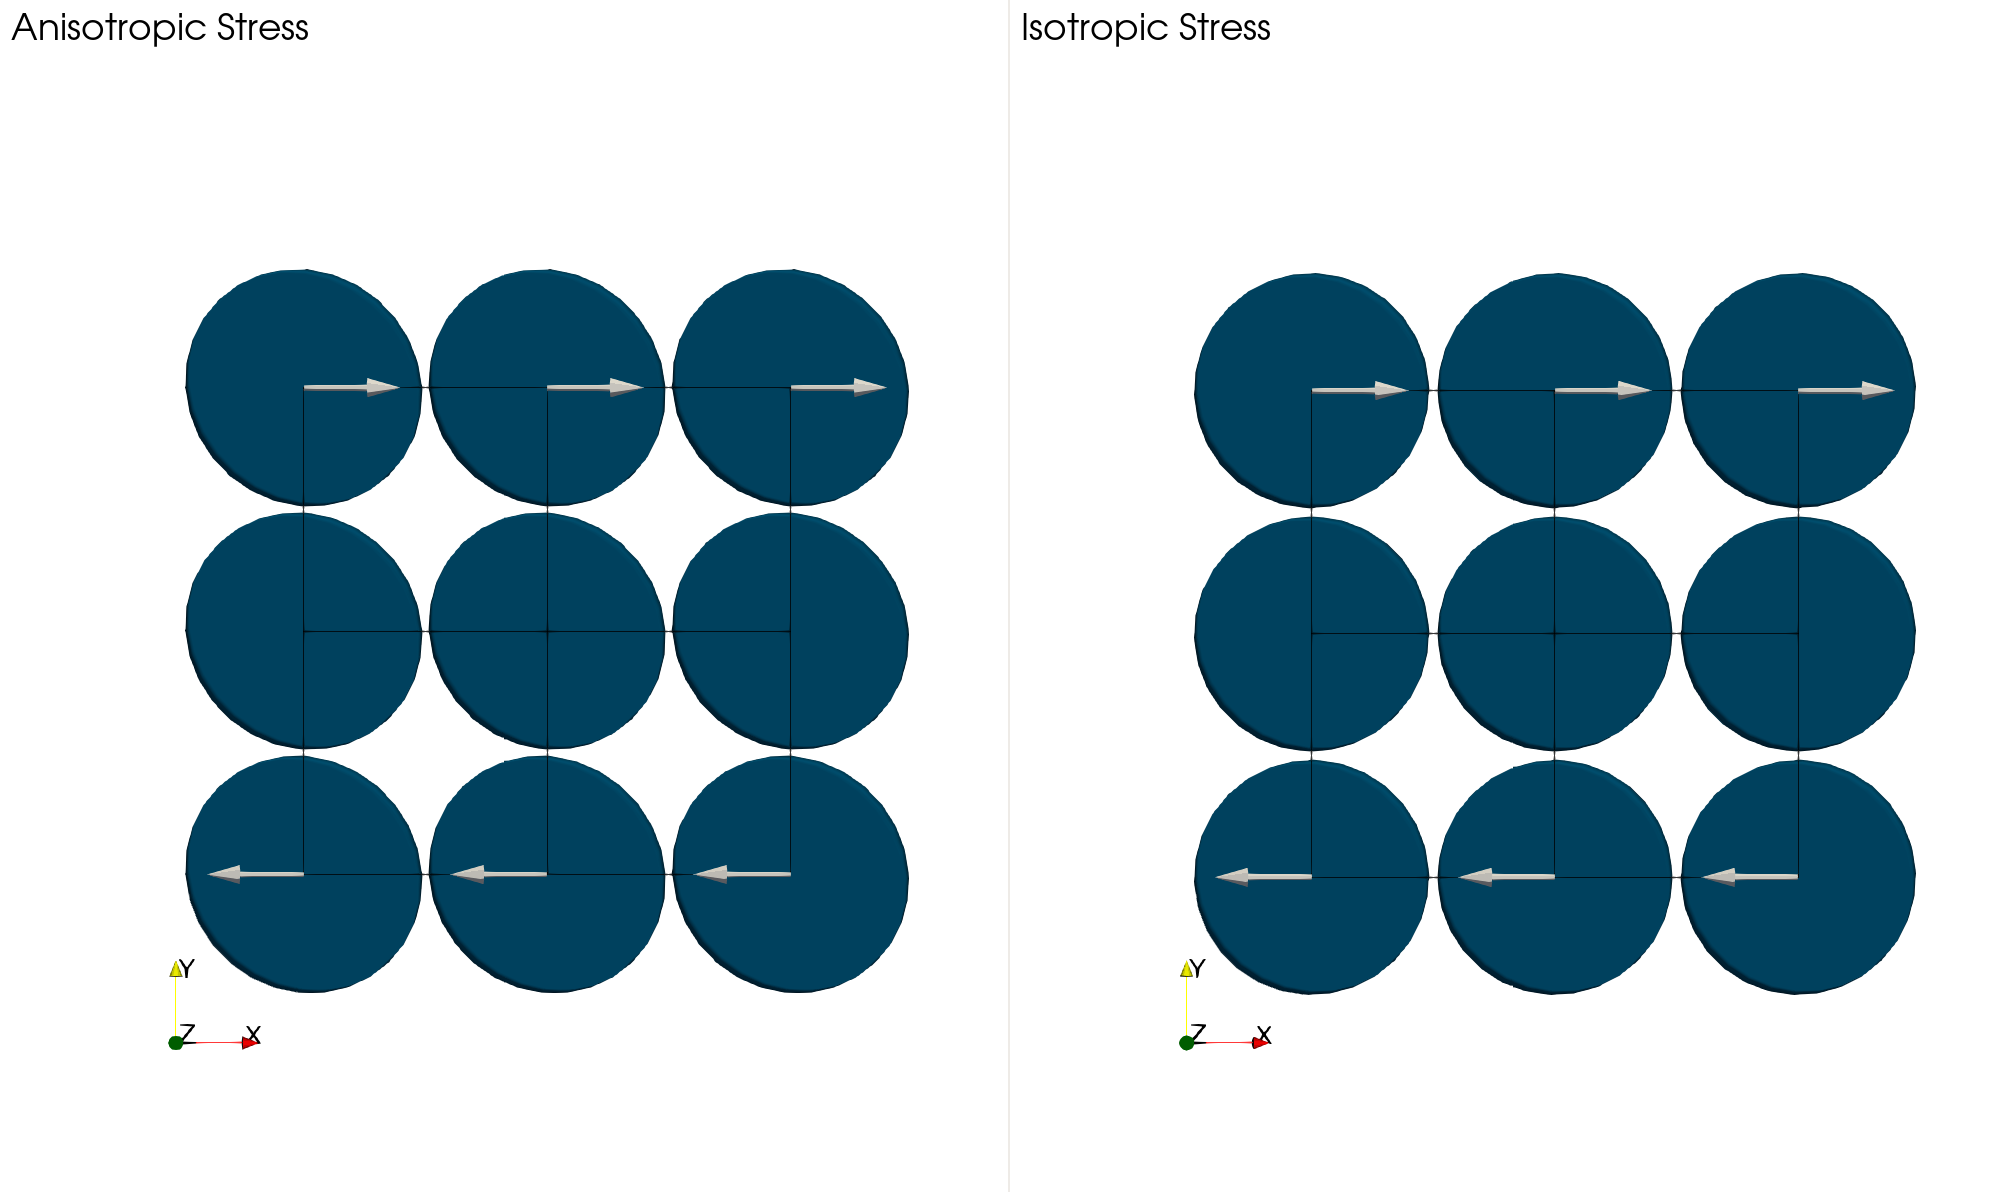
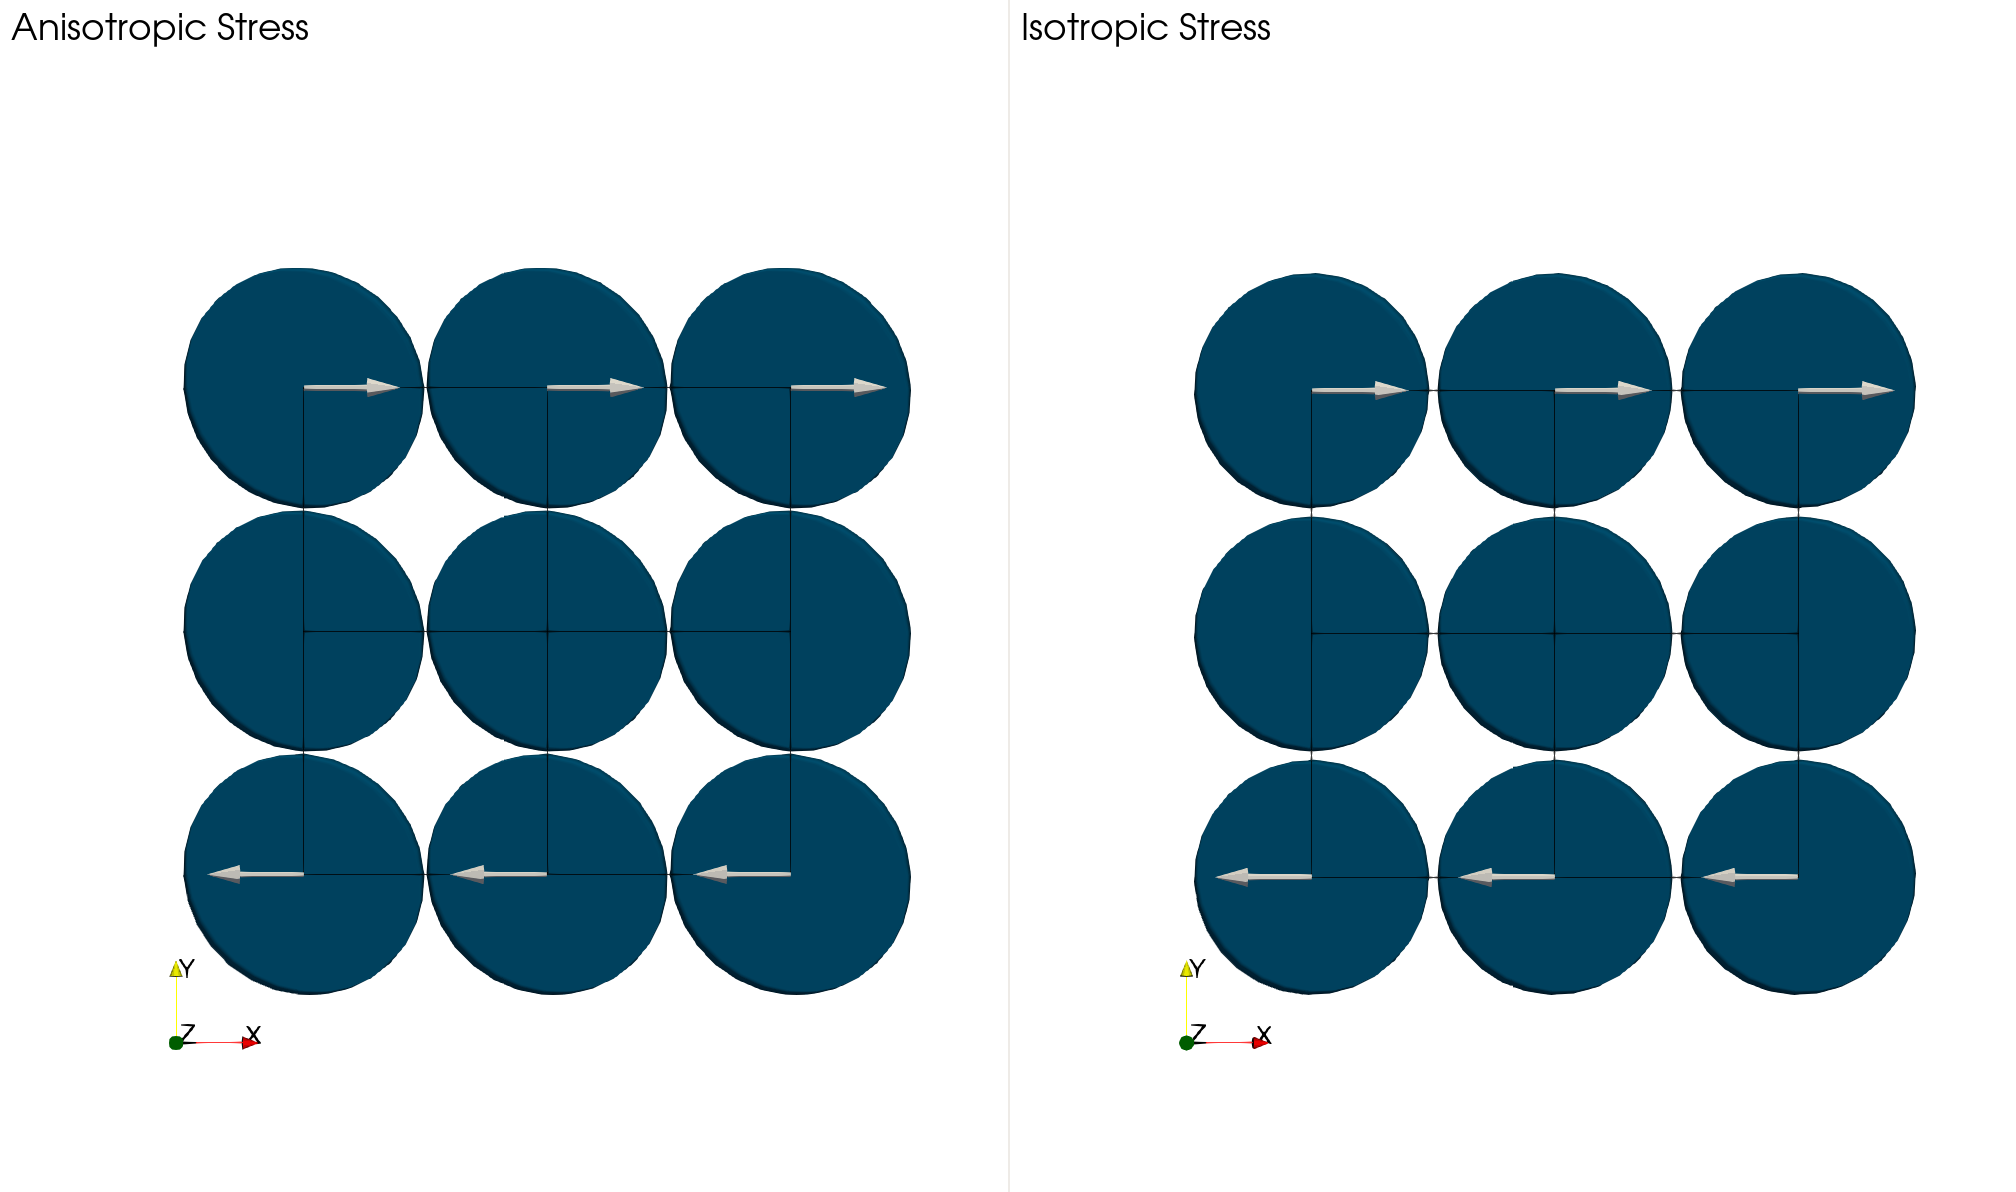
removed merge conflicts

diff --git a/cookbooks/CPO_induced_anisotropic_viscosity/plugin/cpo_induced_anisotropic_viscosity.cc b/cookbooks/CPO_induced_anisotropic_viscosity/plugin/cpo_induced_anisotropic_viscosity.cc
@@ -219,7 +219,7 @@ namespace aspect
       std::vector<int> ji = {1,2,0}; // tuple of indices shifted by one
       std::vector<int> ki = {2,0,1}; // tuple of indices shifted by two
 
-      std::vector<double> Hi = {F, G, H, M, N, L};
+      std::vector<double> Hi = {F, G, H, L, M, N};
       const double gam = 4*(Hi[2]*Hi[1] + Hi[0]*Hi[2] + Hi[0]*Hi[1]);
 
       double anisotropic_invariant = 0.0;
@@ -288,13 +288,6 @@ namespace aspect
                strain_rate_3d);
 
           // Create constant value to use for AV
-
-          const double A_o = fluidity_constant*std::exp(-activation_energy/(8.314*std::max(in.temperature[q],1.0e-10)));
-          // 1.1e5*std::exp(-530000/(8.314*in.temperature[q]));
-          // The values of A_o and 0.73 were picked so that Gamma = 3.5322e-15[1/(s*Pa^n)] if T=1600K and d=1000 microns
-          const double Gamma = (A_o/(std::pow(grain_size, grain_size_exponent)));
-
-          // // Create constant value to use for AV
           // const double A_o = fluidity_constant*std::exp(-530000/(8.314*in.temperature[q]));
           // // const double n = 3.5; //n=3 for test against VPSC, n=3.5 for D-Rex in ASPECT
           // // The values of A_o and 0.73 were picked so that Gamma = 3.5322e-15[1/(s*Pa^n)] if T=1600K and d=1000 microns
@@ -309,10 +302,6 @@ namespace aspect
           // and when the condition allows dislocation creep
           if  ((this->simulator_is_past_initialization()) && (this->get_timestep_number() > 0) && (std::isfinite(determinant(deviatoric_strain_rate))) && (anisotropic_viscosity != nullptr)) // && (in.temperature[q]>1000)
             {
-<<<<<<< HEAD
-=======
-
->>>>>>> yijun/cpo2hill_v3
               // Get eigenvalues from compositional fields
               const std::vector<double> &composition = in.composition[q];
               const double eigvalue_a1 = composition[cpo_bingham_avg_a[1]];
@@ -331,12 +320,9 @@ namespace aspect
               const double phi2 = composition[cpo_bingham_avg_c[0]];
 
               const Tensor<2,3> R = euler_angles_to_rotation_matrix(phi1, theta, phi2);
-<<<<<<< HEAD
 
               // initialize scalar viscosity
               double scalar_viscosity = composition[viscosity_field_index];
-=======
->>>>>>> yijun/cpo2hill_v3
 
               // Compute Hill Parameters FGHLMN from the eigenvalues of a,b,c axis
               // CPO2Hill v3 model:
@@ -391,26 +377,8 @@ namespace aspect
               R_CPO_K[5][4] = R[0][0]*R[1][2]+R[0][2]*R[1][0];
               R_CPO_K[5][5] = R[0][0]*R[1][1]+R[0][1]*R[1][0];
 
-<<<<<<< HEAD
               // using the analytical inversion based on principal invariants of orthotropic symmetry group
               if (use_analytical_inversion == true)
-=======
-              SymmetricTensor<2,6> A;
-              A[0][0] = (2./3.) * (G+H);
-              A[0][1] = (2./3.) * (-H);
-              A[0][2] = (2./3.) * (-G);
-              A[1][1] = (2./3.) * (H+F);
-              A[1][2] = (2./3.) * (-F);
-              A[2][2] = (2./3.) * (F+G);
-              A[3][3] = (2./3.) * (L);
-              A[4][4] = (2./3.) * (M);
-              A[5][5] = (2./3.) * (N);
-
-              // A is the anisotropic tensor for the fluidity. We need its inverse, but it's not invertible due to singularity.
-              // Thus we compute the Moore-Penrose pseudo inverse using SVD
-              LAPACKFullMatrix<double> A_mat_lapack(6,6), pinvA_mat_lapack(6,6);
-              for (unsigned int ai=0; ai<6; ++ai)
->>>>>>> yijun/cpo2hill_v3
                 {
                   // rotate 3d strain-rate into cpo frame and compute scalar anisotropic viscosity
                   Tensor<2,3> strain_rate_cpo = R*strain_rate_3d*transpose(R);
@@ -488,9 +456,8 @@ namespace aspect
                     }
 
                   unsigned int n_iterations = 0;
-                  const unsigned int max_iteration = 100;
                   double residual = scalar_viscosity;
-                  double threshold = 0.0001*scalar_viscosity;
+                  double threshold = relative_tolerance*scalar_viscosity;
                   // Here we convert stress to MPa to be consistent with the constitutive equation defined in Signorelli et al. (2021),
                   // in which the stress is in MPa.
                   SymmetricTensor<2,3> stress = scalar_viscosity * viscosity_tensor_3D_r4 * deviatoric_strain_rate; // 2 * / 1e6;
@@ -515,74 +482,11 @@ namespace aspect
                       const double scalar_viscosity_new = (1 / (Gamma * std::pow(Jhill,(n-1)/2)));
                       residual = std::abs(scalar_viscosity_new - scalar_viscosity);
                       scalar_viscosity = scalar_viscosity_new;
-                      threshold = 0.0001*scalar_viscosity;
+                      threshold = relative_tolerance*scalar_viscosity;
                       n_iterations++;
                     }
                 }
 
-<<<<<<< HEAD
-=======
-              // Calculate the fluidity tensor in the CPO frame
-              const Tensor<2,6> V = transpose(R_CPO_K) * invA * R_CPO_K;
-
-              // Convert rank 2 viscosity tensor to rank 4
-              FullMatrix<double> V_mat(6,6);
-              for (unsigned int vi=0; vi<6; ++vi)
-                {
-                  for (unsigned int vj=0; vj<6; ++vj)
-                    {
-                      V_mat[vi][vj] = V[vi][vj];
-                    }
-                }
-              SymmetricTensor<4,dim> V_r4;
-              dealii::Physics::Notation::Kelvin::to_tensor(V_mat, V_r4);
-              anisotropic_viscosity->stress_strain_directors[q] = V_r4;
-
-              double scalar_viscosity = composition[viscosity_field_index];
-
-              // In the first time step using the actual strain rate can lead to convergence issue if the strain rate varies significantly within the model domain.
-              // Thus for the first timestep we calculate an initial viscosity based on the strain rate.
-              if (this->get_timestep_number() == 1)
-                {
-                  const double edot_ii=std::max(std::sqrt(std::max(-second_invariant(deviator(strain_rate)), 0.)),
-                                                min_strain_rate);
-                  scalar_viscosity= 1/Gamma * std::pow(edot_ii,((1. - n)/n));
-                }
-
-              unsigned int n_iterations = 0;
-              // const unsigned int max_iteration = 100;
-              double residual = scalar_viscosity;
-              double threshold = relative_tolerance*scalar_viscosity;
-              // Here we convert stress to MPa to be consistent with the constitutive equation defined in Signorelli et al. (2021),
-              // in which the stress is in MPa.
-              SymmetricTensor<2,dim> stress = scalar_viscosity * V_r4 * deviatoric_strain_rate / 1e6;
-
-              while (std::abs(residual) > threshold && n_iterations < max_iteration)
-                {
-                  stress = (1./2.) * (stress + scalar_viscosity * V_r4 * deviatoric_strain_rate / 1e6);
-
-                  const Tensor<2,dim> S_CPO= R * stress * transpose(R);
-
-                  double Jhill = 2./3. * (F*Utilities::fixed_power<2>(S_CPO[1][1]-S_CPO[2][2]) + G*Utilities::fixed_power<2>(S_CPO[2][2]-S_CPO[0][0]) + H*Utilities::fixed_power<2>(S_CPO[0][0]-S_CPO[1][1]) + 2*L*Utilities::fixed_power<2>(S_CPO[1][2]) + 2*M*Utilities::fixed_power<2>(S_CPO[0][2]) + 2*N*Utilities::fixed_power<2>(S_CPO[0][1]));
-                  if (Jhill < 0)
-                    {
-                      Jhill = 2./3. * (std::abs(F)*Utilities::fixed_power<2>(S_CPO[1][1]-S_CPO[2][2]) + std::abs(G)*Utilities::fixed_power<2>(S_CPO[2][2]-S_CPO[0][0]) + std::abs(H)*Utilities::fixed_power<2>(S_CPO[0][0]-S_CPO[1][1]) + 2*L*Utilities::fixed_power<2>(S_CPO[1][2]) + 2*M*Utilities::fixed_power<2>(S_CPO[0][2]) + 2*N*Utilities::fixed_power<2>(S_CPO[0][1]));
-                    }
-
-                  AssertThrow(std::isfinite(Jhill),
-                              ExcMessage("Jhill should be finite"));
-                  AssertThrow(Jhill >= 0,
-                              ExcMessage("Jhill should not be negative"));
-
-                  const double scalar_viscosity_new = (1 / (Gamma * std::pow(Jhill,(n-1)/2)));
-                  residual = std::abs(scalar_viscosity_new - scalar_viscosity);
-                  scalar_viscosity = scalar_viscosity_new;
-                  threshold = 0.001*scalar_viscosity;
-                  n_iterations++;
-
-                }
-              // Store the scalar viscosity in out.viscosities
->>>>>>> yijun/cpo2hill_v3
               out.viscosities[q] = scalar_viscosity;
 
               AssertThrow(std::isfinite(out.viscosities[q]),
@@ -593,7 +497,6 @@ namespace aspect
             }
           else // timestep == 0 or no anisotropic viscosity
             {
-<<<<<<< HEAD
               if ((this->simulator_is_past_initialization()) && (std::isfinite(determinant(deviatoric_strain_rate))))
                 {
                   // for the zero-th timestep calculating the scalar viscosity based on the strain-rate -> i.e. isotropic response
@@ -602,18 +505,6 @@ namespace aspect
                   out.viscosities[q] = std::pow(Gamma, (-1/n))*std::pow(edot_ii,((1. - n)/n)); //
 
                 }
-=======
-              // if ((this->simulator_is_past_initialization()) && (std::isfinite(determinant(deviatoric_strain_rate))))
-              //   {
-              //     // for the zero-th timestep calculating the scalar viscosity based on the strain-rate -> i.e. isotropic response
-              //     double edot_ii=std::max(std::max(deviatoric_strain_rate.norm(), 0.),
-              //                                   min_strain_rate);
-              //     out.viscosities[q] = 1/Gamma * std::pow(edot_ii,((1. - n)/n)); //
-              //     double edot_ii=std::max(std::sqrt(std::max(-second_invariant(deviator(strain_rate)), 0.)),
-              //                                   min_strain_rate);
-              //     out.viscosities[q] = 1/Gamma * std::pow(edot_ii,((1. - n)/n));
-              //   }
->>>>>>> yijun/cpo2hill_v3
 
               if (anisotropic_viscosity != nullptr)
                 {
@@ -628,7 +519,6 @@ namespace aspect
                       out.viscosities[q] = 1/Gamma * std::pow(edot_ii,((1. - n)/n));
                     }
                   // Assign an isotropic viscosity tensor
-<<<<<<< HEAD
                   SymmetricTensor<2,6> viscosity_tensor;
                   viscosity_tensor[0][0] = 2.0/3.0;  // 4.0/9.0;
                   viscosity_tensor[0][1] = -1.0/3.0; // -2.0/9.0;
@@ -642,18 +532,6 @@ namespace aspect
 
                   // save viscosity tensor in stress-strain director to be used in
                   anisotropic_viscosity->stress_strain_directors[q] = CPO_AV_3D::kelvin_to_r4_tensor(viscosity_tensor);
-=======
-                  SymmetricTensor<2,6> V;
-                  V[0][0] = 2.0/3.0;
-                  V[0][1] = -1.0/3.0;
-                  V[0][2] = -1.0/3.0;
-                  V[1][1] = 2.0/3.0;
-                  V[1][2] = -1.0/3.0;
-                  V[2][2] = 2.0/3.0;
-                  V[3][3] = 1.;
-                  V[4][4] = 1.;
-                  V[5][5] = 1.;
->>>>>>> yijun/cpo2hill_v3
 
                 }
             }
@@ -722,12 +600,6 @@ namespace aspect
           prm.declare_entry ("Grain size", "1.0e-3",
                              Patterns::Double(),
                              "Olivine anisotropic viscosity is dependent of grain size. Value is given in meters");
-<<<<<<< HEAD
-=======
-          prm.declare_entry ("Stress exponent", "3.5",
-                             Patterns::Double(),
-                             "Stress exponent for non-linear rheology");
->>>>>>> yijun/cpo2hill_v3
           prm.declare_entry ("Fluidity constant", "1.1e5",
                              Patterns::Double(),
                              "Prefactor for Arhenius temperature activation");
@@ -736,7 +608,6 @@ namespace aspect
                              "Activation energy for Arhenius temperature dependence of rheology");
           prm.declare_entry ("Grain size exponent", "0.73",
                              Patterns::Double(),
-<<<<<<< HEAD
                              "Exponent for grainsize dependence");
           prm.declare_entry ("Stress exponent", "3.5",
                              Patterns::Double(),
@@ -744,15 +615,12 @@ namespace aspect
           prm.declare_entry ("Use analytical inversion", "false",
                              Patterns::Bool (),
                              "Whether to use the analytical or the iterative inversion for the anisotropic scalar viscosity.");
-=======
-                             "Exponent for grain-size dependence");
           prm.declare_entry ("Relative tolerance for iteration", "0.0001",
                              Patterns::Double(),
                              "The iteration for computing scalar viscosity is terminated when the relative change falls below the relative tolerance.");
           prm.declare_entry ("Maximum number of iterations", "100",
                              Patterns::Integer(),
                              "To prevent excessive computation, the number of iterations with a maximum number of iterations.");
->>>>>>> yijun/cpo2hill_v3
         }
         prm.leave_subsection();
       }
@@ -778,12 +646,9 @@ namespace aspect
           fluidity_constant = prm.get_double("Fluidity constant");
           grain_size_exponent = prm.get_double("Grain size exponent");
           activation_energy = prm.get_double("Activation energy");
-<<<<<<< HEAD
           use_analytical_inversion  = prm.get_bool ("Use analytical inversion");
-=======
           relative_tolerance = prm.get_double("Relative tolerance for iteration");
           max_iteration = prm.get_integer("Maximum number of iterations");
->>>>>>> yijun/cpo2hill_v3
           CnI_F = dealii::Utilities::string_to_double(dealii::Utilities::split_string_list(prm.get("Coefficients and intercept for F")));
           CnI_G = dealii::Utilities::string_to_double(dealii::Utilities::split_string_list(prm.get("Coefficients and intercept for G")));
           CnI_H = dealii::Utilities::string_to_double(dealii::Utilities::split_string_list(prm.get("Coefficients and intercept for H")));

diff --git a/cookbooks/CPO_induced_anisotropic_viscosity/plugin/cpo_induced_anisotropic_viscosity.h b/cookbooks/CPO_induced_anisotropic_viscosity/plugin/cpo_induced_anisotropic_viscosity.h
@@ -91,11 +91,6 @@ namespace aspect
         double grain_size_exponent;
         bool use_analytical_inversion;
 
-        double stress_exponent;
-        double activation_energy;
-        double fluidity_constant;
-        double grain_size_exponent;
-
         /** The iteration for computing scalar viscosity is terminated when the relative change falls below the relative tolerance. */
         double relative_tolerance;
         unsigned int max_iteration;

diff --git a/cookbooks/CPO_induced_anisotropic_viscosity/doc/CPO_induced_anisotropic_viscosity.md b/cookbooks/CPO_induced_anisotropic_viscosity/doc/CPO_induced_anisotropic_viscosity.md
@@ -16,7 +16,7 @@ This cookbook explains how to use the CPO-induced anisotropic viscosity material
 
 ## Introduction
 
-Individual crystals of the mineral olivine reorganize their orientations into crystal-preferred orientations (CPO) under deformation. The viscous properties of olivine crystals are direction-dependent (anisotropic), which suggests that the effective viscosity for olivine rocks/aggregates is different when deformations occur in different directions relative to the CPO. This cookbook model computes an anisotropic viscosity based on the CPO evolution predicted by D-Rex ({cite}`fraters_billen_2021_cpo`; {cite}`kaminski2004`) and includes this information in the subsequent modeling process based on the formulation of Király at al., (in rev.).
+Individual crystals of the mineral olivine reorganize their orientations into crystal-preferred orientations (CPO) under deformation. The viscous properties of olivine crystals are direction-dependent (anisotropic), which suggests that the effective viscosity for olivine rocks/aggregates is different when deformations occur in different directions relative to the CPO. This cookbook model computes an anisotropic viscosity based on the CPO evolution predicted by D-Rex ({cite}`fraters_billen_2021_cpo`; {cite}`kaminski2004`) and includes this information in the subsequent modeling process based on the formulation of Király at al., {cite}`kiraly:etal:2026`.
 
 ### Forward Rheology
 
